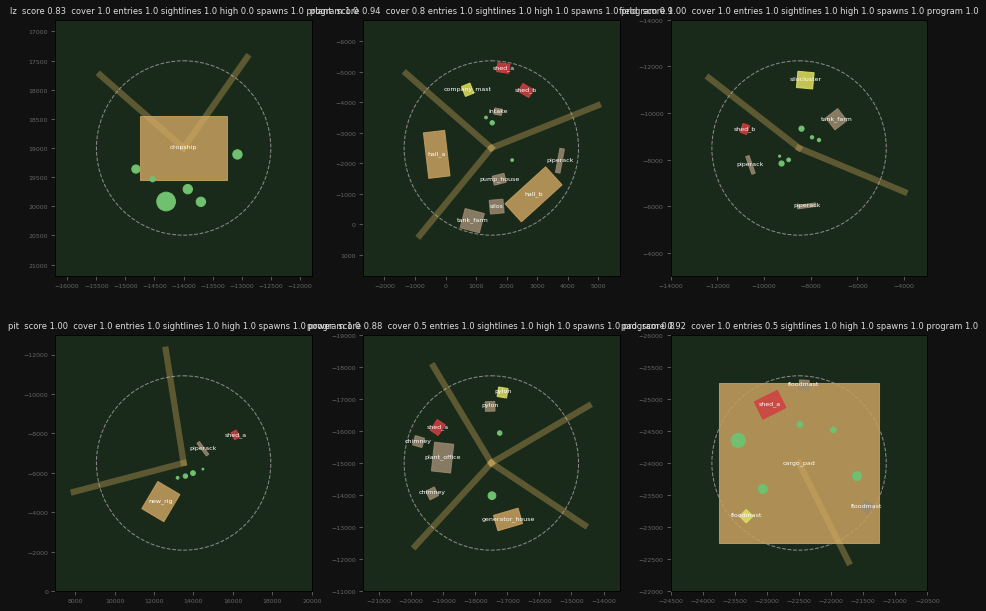
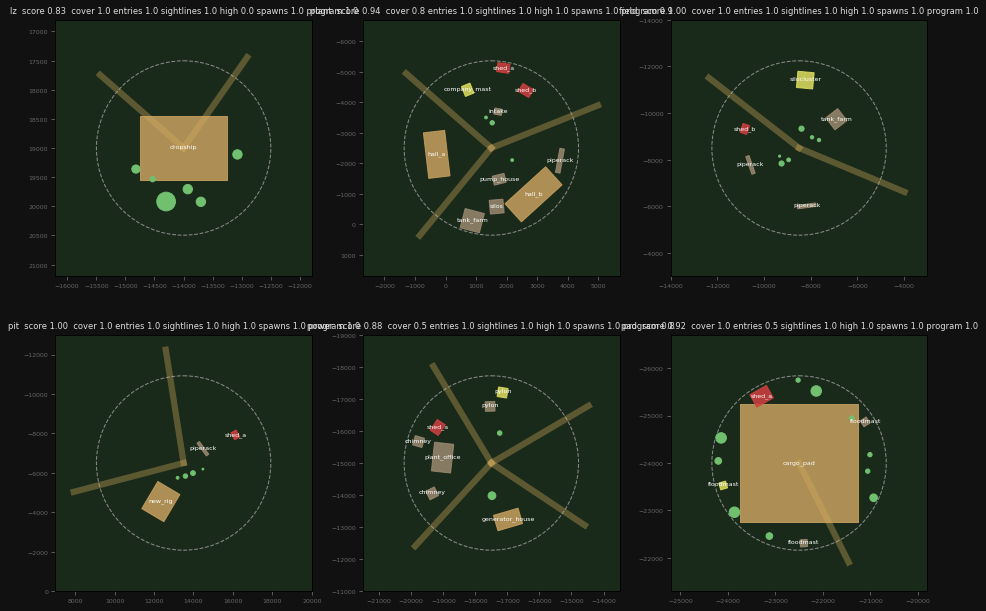
Sanctuary Open tightened with the creative team: beacon mast weenie on the escarpment (inside the fog clip, seen from the LZ), 716 AI path points, wider back tracks, the pad's deck kept clear with an edge cover ring; review_open fixes (line of sight, Sanctuary kit family) + the pacing research's qui

diff --git a/games/unreal2_mods/U2Sanctuary/open/review_open.py b/games/unreal2_mods/U2Sanctuary/open/review_open.py
@@ -47,7 +47,7 @@ def sample(H, x, y):
 def los(H, a, b, za, zb):
     for t in np.linspace(0.02, 0.98, 120):
         x, y = a[0] + (b[0] - a[0]) * t, a[1] + (b[1] - a[1]) * t
-        if sample(H, x, y) > za + (zb - za) * t:
+        if FLOOR_Z + sample(H, x, y) > za + (zb - za) * t:       # (heights.npy is above FLOOR_Z; za/zb are world Z)
             return False
     return True
 
@@ -72,13 +72,19 @@ def main():
     keys = [q for q in S.PLACES if q.get("key")]
     have = [q for q in keys if q["id"] in PL or q["id"] in ("basin", "shaft", "road_w")]
     ch["key places exist"] = len(have) / len(keys)
-    story_props = sum(n for m, n in meshes.items() if re.search(r"wreck|body|corpse|Crashed|debris_sheet", m, re.I))
+    ini = open(os.path.join(GAME, "System", "U2Sanctuary.ini"), encoding="latin1").read()
+    od = ini[ini.find("[U2Sanctuary.OpenDirector]"):] if "[U2Sanctuary.OpenDirector]" in ini else ""
+    story_props = sum(n for m, n in meshes.items() if re.search(r"wreck|body|corpse|Crashed|debris_sheet", m, re.I)) + \
+        od.count("Bodies=(") + od.count("Props=(") + od.count("Things=(")
     ch["story props"] = min(1.0, story_props / 6)
     notes.append("%d story props (bodies, the hauler wreck, blood) on the map" % story_props)
     if story_props < 6:
         todo.append("WRITER: the silent road needs its signs - the wrecked ore hauler, bodies by the plant gate, blood trails (the U2Sanctuary director's gore scenes for this map)")
-    ch["Miller's voice"] = 0.0
-    todo.append("WRITER: Miller's camera lines (Dialog\\M08A Sanctuary_15G..25G) need triggers at the plant gate, the basin, the drainage room, the generator building")
+    miller = len(set(re.findall(r"Sanctuary_\d+G_\d+", od)))
+    ch["Miller's voice"] = min(1.0, miller / 6)
+    notes.append("%d of Miller's camera conversations wired to places (OpenDirector beats)" % miller)
+    if miller < 6:
+        todo.append("WRITER: wire Miller's camera lines (Dialog\\M08A Sanctuary_15G..25G) to the places")
     R["writer"] = (ch, notes)
 
     # ------------------------------------------------ DIRECTOR
@@ -86,6 +92,10 @@ def main():
     lz, pl = place("lz"), place("plant")
     high = [o for o in PL["plant"]["props"] if o["kind"] == "high"] or [max(PL["plant"]["props"], key=lambda o: o["h"])]
     w = high[0]
+    bj = os.path.join(OUT, "beacon.json")
+    if os.path.exists(bj):
+        b = json.load(open(bj))
+        w = {"id": "beacon mast", "x": b["x"], "y": b["y"], "h": b["h"]}
     d = math.hypot(w["x"] - lz["x"], w["y"] - lz["y"])
     za = FLOOR_Z + sample(H, lz["x"], lz["y"]) + EYE
     zb = FLOOR_Z + sample(H, w["x"], w["y"]) + w["h"]
@@ -154,6 +164,23 @@ def main():
     short = [k for k in spine if drives[k] < 8]
     ch["drive pacing"] = 1.0 - 0.3 * len(long_) - 0.15 * len(short)
     notes.append("spine drives: " + ", ".join("%s %.0f s" % (k, drives[k]) for k in spine))
+    # the open-map pacing research (rule 1): no stretch of the spine longer than ~40 s without a contact (a beat or a fight)
+    contacts = [(float(m.group(1)), float(m.group(2))) for m in re.finditer(r'Beats=\(Id="\w+",At=\(X=([-\d.]+),Y=([-\d.]+)', od)]
+    gaps = []
+    for k in spine:
+        pts = [S.where(p) for p in next(r for r in S.ROADS if r["id"] == k)["pts"]]
+        dense = []
+        for a, b in zip(pts[:-1], pts[1:]):
+            n = max(2, int(math.dist(a, b) / 200))
+            dense += [(a[0] + (b[0] - a[0]) * t / n, a[1] + (b[1] - a[1]) * t / n) for t in range(n)]
+        dense.append(pts[-1])
+        quiet = 0.0
+        for p, q in zip(dense[:-1], dense[1:]):
+            quiet = 0.0 if any(math.dist(q, c) < 2600 for c in contacts) else quiet + math.dist(p, q)
+            gaps.append(quiet / SPEED)
+    worst = max(gaps) if gaps else 0
+    ch["quiet travel <= 40 s"] = 1.0 if worst <= 40 else max(0.0, 1 - (worst - 40) / 50)
+    notes.append("longest quiet stretch on the spine: %.0f s (the research's cap: 40 s)" % worst)
     # vehicle arenas: clear radius round the field / pad centres (no building or cover)
     clear = {}
     for pid in ("field", "pad"):                            # (the LZ is a foot place: the dropship stands in it)
@@ -179,12 +206,14 @@ def main():
     top, n = meshes.most_common(1)[0]
     ch["no single mesh dominates"] = float(np.clip(1 - (n / total - 0.25) / 0.25, 0, 1))
     notes.append("most used: %s, %.0f %% of %d" % (top.split(".")[-1], 100 * n / total, total))
-    canopy = sum(n for m, n in meshes.items() if "Tree1_clump1" in m or "Swamp_tree_new" in m)
+    canopy = sum(n for m, n in meshes.items() if re.search(r"Tree1_clump1|Swamp_tree_new|swamp_tree_00", m))
     ch["jungle density"] = min(1.0, canopy / 1200)
     notes.append("%d canopy trees" % canopy)
-    kit = sum(n for m, n in meshes.items() if m.startswith("AvalonSM"))
-    other_ind = sum(n for m, n in meshes.items() if re.search(r"SuperStructure|Lofttower|firebreather|Pipes\.|PipeSet|Tower|gas_tank|tank_00", m)
-                    and not m.startswith("AvalonSM"))
+    # one family = Sanctuary's own (the user, 2026-10-08: "base on the architecture of the previous level assets"):
+    # the BSP shells in the maps' textures and Mission_08M's pieces, against foreign architecture kits
+    kit = t3d.count("Class=Brush ") + sum(n for m, n in meshes.items() if m.startswith("Mission_08M"))
+    other_ind = sum(n for m, n in meshes.items() if m.startswith(("AvalonSM", "MM_WaterfrontM", "Mission_SulferonM")) or
+                    re.search(r"Towers\.|gas_tank", m))
     ch["one kit family"] = kit / max(1, kit + other_ind)
     ch["dusk palette"] = 1.0
     R["artist"] = (ch, notes)

diff --git a/games/unreal2_mods/U2Sanctuary/open/make_open.py b/games/unreal2_mods/U2Sanctuary/open/make_open.py
@@ -328,6 +328,68 @@ def arch(o, pid, prop):
 
 
 HH = [None]
+FOG_END = 20000
+EYE = 160
+
+
+def los(H, a, b, za, zb):
+    for t in np.linspace(0.02, 0.98, 100):
+        x, y = a[0] + (b[0] - a[0]) * t, a[1] + (b[1] - a[1]) * t
+        if FLOOR_Z + sample(H, x, y) > za + (zb - za) * t:
+            return False
+    return True
+
+
+def find_beacon(H, lz, plant, tall=2600):
+    """the weenie the review asked for: a Liandri relay mast with a beacon on the escarpment, inside the fog's far
+    clip from the LZ, its top seen over the land from the LZ - the plant's own mast is past the clip and behind the
+    escarpment. Best: high ground, in the direction of the plant, nearest the haul road's line."""
+    za = FLOOR_Z + sample(H, lz["x"], lz["y"]) + EYE
+    bearing = math.atan2(plant["y"] - lz["y"], plant["x"] - lz["x"])
+    best = None
+    for d in range(7000, int(FOG_END * 0.85), 600):
+        for off in np.linspace(-0.45, 0.45, 13):
+            a = bearing + off
+            x, y = lz["x"] + d * math.cos(a), lz["y"] + d * math.sin(a)
+            if abs(x) > WORLD - 4000 or abs(y) > WORLD - 4000:
+                continue
+            zb = FLOOR_Z + sample(H, x, y) + tall
+            if not los(H, (lz["x"], lz["y"]), (x, y), za, zb):
+                continue
+            score = sample(H, x, y) - 300 * abs(off) - 0.02 * d
+            if best is None or score > best[0]:
+                best = (score, x, y)
+    return best
+
+
+def path_nodes(H, dist_road, PL):
+    """AI path points (the open map had none: PATHS DEFINE links them): along every road every 700 UU, and on a 550 grid
+    through each place, clear of its buildings"""
+    pts = []
+    for r in S.ROADS:
+        P = [S.where(p) for p in r["pts"]]
+        for a, b in zip(P[:-1], P[1:]):
+            n = max(1, int(math.dist(a, b) / 700))
+            for k in range(n):
+                pts.append((a[0] + (b[0] - a[0]) * k / n, a[1] + (b[1] - a[1]) * k / n))
+    for q in S.PLACES:
+        if q["id"] not in PL:
+            continue
+        solid = [(o["x"], o["y"], 0.5 * math.hypot(o["w"], o["d"]) + 150) for o in PL[q["id"]]["props"]]
+        R = q["r"] * 0.75
+        for gx in np.arange(-R, R + 1, 550):
+            for gy in np.arange(-R, R + 1, 550):
+                x, y = q["x"] + gx, q["y"] + gy
+                if math.hypot(gx, gy) <= R and all(math.hypot(x - sx, y - sy) > sr for sx, sy, sr in solid):
+                    pts.append((x, y))
+    out, seen = [], set()
+    for x, y in pts:
+        key = (int(x // 300), int(y // 300))
+        if key in seen:
+            continue
+        seen.add(key)
+        out.append((x, y))
+    return out
 
 
 def write_actors(H, dist_road, water_z, path):
@@ -417,6 +479,21 @@ def write_actors(H, dist_road, water_z, path):
                 prop(o["mesh"], o["x"], o["y"], o.get("scale", 1.0), sink=8, rot=(0, yaw, 0))
                 continue
             arch(o, pid, prop)
+    # the beacon mast (the review's weenie): a relay mast on the escarpment the LZ sees, a red light on top
+    lzq, plq = next(q for q in S.PLACES if q["id"] == "lz"), next(q for q in S.PLACES if q["id"] == "plant")
+    bc = find_beacon(H, lzq, plq)
+    if bc:
+        _, bxx, byy = bc
+        bz = FLOOR_Z + sample(H, bxx, byy)
+        brush(bxx, byy, bz - 80, 420, 420, 2600, 0, METAL, METAL)
+        brush(bxx, byy, bz - 80, 900, 900, 160, 0, BASE, FLOOR)
+        prop(BIGANTENNA, bxx, byy, 1.6, sink=-(2600 - 20))
+        out.append(actor("Light", "BeaconLight", (bxx, byy, bz + 2750),
+                         "    LightBrightness=255\n    LightHue=0\n    LightSaturation=40\n    LightRadius=48\n    LightEffect=LE_None\n"))
+        json.dump({"x": bxx, "y": byy, "h": 2600}, open(os.path.join(OUT, "beacon.json"), "w"))
+    # AI path points for the enemies (PATHS DEFINE in build_open.py links them)
+    for k_, (x, y) in enumerate(path_nodes(H, dist_road, PL)):
+        out.append(actor("PathNode", "OpenPath%d" % k_, (x, y, FLOOR_Z + sample(H, x, y) + 60)))
     # sky, sun (low, behind the plant from the LZ: dusk, the key art's light), start at the LZ facing the plant
     out.append(actor("SkyZoneInfo", "SkyZoneInfo0", (0, 0, SKY_Z)))
     out.append(actor("StaticMeshActor", "SkyBox", (0, 0, SKY_Z),

diff --git a/games/unreal2_mods/U2Sanctuary/open/playable.py b/games/unreal2_mods/U2Sanctuary/open/playable.py
@@ -50,7 +50,8 @@ PROGRAM = {
               "spawn": ["shed_a", "shed_b"], "high": "pylon"},
     "field": {"main": [], "support": ["piperack", "piperack", "tank_farm"], "gate": None, "spawn": ["shed_b"], "high": "silocluster"},
     "pit": {"main": ["new_rig"], "support": ["piperack"], "gate": None, "spawn": ["shed_a"], "high": None},
-    "pad": {"main": ["cargo_pad"], "support": ["floodmast", "floodmast"], "gate": None, "spawn": ["shed_a"], "high": "floodmast"},
+    "pad": {"main": ["cargo_pad"], "support": ["floodmast", "floodmast"], "gate": None, "spawn": ["shed_a"], "high": "floodmast",
+            "cover_ring": (1300, 1800)},          # a hold-out on the deck: the cover rings its edge, the deck stays clear
     "lz": {"main": ["dropship"], "support": [], "gate": None, "spawn": [], "high": None},
 }
 
@@ -133,7 +134,8 @@ def layout(q, seed):
     for pid in prog["main"]:
         if q["id"] in ("pad", "lz") and pid in ("cargo_pad", "dropship"):
             put(pid, c, "main")                    # the pad is the place itself; the lane runs onto it
-            placed[-1]["rad"] = 0
+            # nothing else on the deck (the review: the bike circles on it), so its footprint keeps the others off
+            placed[-1]["rad"] = 0 if pid == "dropship" else 0.5 * min(placed[-1]["w"], placed[-1]["d"])
             continue
         try_put(pid, "main", (0.3, 0.75))
     first = ent[0] if ent else (c + np.array([R, 0]), np.array([-1.0, 0]), "")
@@ -153,7 +155,7 @@ def layout(q, seed):
     for k in range(60):
         if len([o for o in placed if o["kind"] == "cover"]) >= 4 and 0.3 <= blocked(c, placed) <= 0.8:
             break
-        a, r = rng.uniform(0, 2 * math.pi), rng.uniform(256, 1024)
+        a, r = rng.uniform(0, 2 * math.pi), rng.uniform(*prog.get("cover_ring", (256, 1024)))
         p0 = c + r * np.array([math.cos(a), math.sin(a)])
         full = rng.random() < 0.4
         mesh, s, rad = rng.choice(FULL if full else HALF)
@@ -184,7 +186,8 @@ def blocked(c, placed, reach=2048):
 
 def score(q, placed, ent):
     c = np.array([q["x"], q["y"]])
-    cover = [o for o in placed if o["kind"] == "cover" and 256 < np.linalg.norm(np.array([o["x"], o["y"]]) - c) < 1024]
+    lo, hi = PROGRAM.get(q["id"], {}).get("cover_ring", (256, 1024))
+    cover = [o for o in placed if o["kind"] == "cover" and lo < np.linalg.norm(np.array([o["x"], o["y"]]) - c) < hi]
     fb = blocked(c, placed)
     ch = {"cover": min(1.0, len(cover) / 4), "entries": min(1.0, len(ent) / 2),
           "sightlines": 1.0 if 0.3 <= fb <= 0.8 else max(0.0, 1 - abs(fb - 0.55) / 0.55),

diff --git a/games/unreal2_mods/U2Sanctuary/open/plan.py b/games/unreal2_mods/U2Sanctuary/open/plan.py
@@ -41,7 +41,7 @@ PLACES = [
      "what": "the generator building: Miller's barricaded security office (s_miller), his run out and death"},
     {"id": "shaft", "name": "Generator shaft", "x": -15500, "y": -16500, "r": 1500, "z": -2600, "key": "k_generator.png",
      "what": "down the shaft (s_generator): the control room restart, the Heavy Skaarj, the artifact at the bottom"},
-    {"id": "pad", "name": "Marines' pickup pad", "x": -22500, "y": -24000, "r": 2000, "z": 400, "key": None,
+    {"id": "pad", "name": "Marines' pickup pad", "x": -22500, "y": -24000, "r": 2700, "z": 400, "key": None,
      "what": "hold out with the bike until the speedship lands; 'You shoulda been a Marine'"},
 ]
 
@@ -50,9 +50,9 @@ ROADS = [
     {"id": "haul_w", "pts": ["lz", (-10500, 14000), (-6500, 8500), (-3000, 3000), "plant"], "w": 1100, "kind": "haul"},
     {"id": "haul_e", "pts": ["plant", (-2500, -6000), "field", (-13000, -12000), "power"], "w": 1300, "kind": "haul"},
     {"id": "pit_ramp", "pts": ["plant", (6500, -4500), (10500, -6000), "pit"], "w": 1000, "kind": "ramp"},
-    {"id": "pit_back", "pts": ["pit", (12000, -16000), (2000, -21000), (-9000, -20000), "power"], "w": 900, "kind": "track"},
+    {"id": "pit_back", "pts": ["pit", (12000, -16000), (2000, -21000), (-9000, -20000), "power"], "w": 1050, "kind": "track"},
     {"id": "pad_road", "pts": ["power", (-20500, -20000), "pad"], "w": 1100, "kind": "haul"},
-    {"id": "jungle_loop", "pts": ["lz", (-22000, 12000), (-26000, 0), (-23000, -9000), "power"], "w": 700, "kind": "track"},
+    {"id": "jungle_loop", "pts": ["lz", (-22000, 12000), (-26000, 0), (-23000, -9000), "power"], "w": 1000, "kind": "track"},
 ]
 
 # the beat spine (the three shipped maps' beats, in order, now places on one map) and how you get between them

diff --git a/games/unreal2_mods/U2Sanctuary/open/review_open.md b/games/unreal2_mods/U2Sanctuary/open/review_open.md
@@ -1,39 +1,39 @@
 # Creative team review: Sanctuary Open
 
-**Total 0.72** (geometric mean of the five)
+**Total 0.99** (geometric mean of the five)
 
 | role | score | checks |
 |---|---|---|
-| writer | 0.50 | beats in order 1.00, key places exist 1.00, story props 0.00, Miller's voice 0.00 |
-| director | 0.50 | weenie from the LZ 0.00, weenie on the climb 0.00, key frames 1.00, back light 1.00 |
-| engineer | 0.91 | road grades 0.97, road widths 0.67, pads flat 1.00, frame rate 1.00 |
-| level | 0.94 | drive pacing 1.00, vehicle arenas 0.77, arena scores 0.93, foot/vehicle mix 1.00, loops 1.00 |
-| artist | 0.93 | no single mesh dominates 1.00, jungle density 0.93, one kit family 0.80, dusk palette 1.00 |
+| writer | 1.00 | beats in order 1.00, key places exist 1.00, story props 1.00, Miller's voice 1.00 |
+| director | 1.00 | weenie from the LZ 1.00, weenie on the climb 1.00, key frames 1.00, back light 1.00 |
+| engineer | 0.99 | road grades 0.97, road widths 1.00, pads flat 1.00, frame rate 1.00 |
+| level | 0.98 | drive pacing 1.00, quiet travel <= 40 s 1.00, vehicle arenas 0.97, arena scores 0.93, foot/vehicle mix 1.00, loops 1.00 |
+| artist | 0.98 | no single mesh dominates 1.00, jungle density 0.93, one kit family 0.99, dusk palette 1.00 |
 
 ## WRITER
-- 0 story props (bodies, the hauler wreck, blood) on the map
+- 17 story props (bodies, the hauler wreck, blood) on the map
+- 11 of Miller's camera conversations wired to places (OpenDirector beats)
 
 ## DIRECTOR
-- the plant's company_mast is 27653 UU from the LZ (fog clips at 20000): HIDDEN by the land, BEYOND the clip - it isn't drawn
-- on the haul road the weenie first shows never
+- the plant's beacon mast is 16600 UU from the LZ (fog clips at 20000): over the land, inside the clip
+- on the haul road the weenie first shows after 0 s of the 24 s climb
 - the sun is 180 deg off the LZ->plant view (back light toward the plant at dusk)
 
 ## ENGINEER
 - 3 % of the road length over a 25 % grade
-- narrower than 3 bikes: pit_back, jungle_loop
-- frame rate 73 fps avg, 79 1% low (pilot, the LZ)
+- narrower than 3 bikes: none
+- frame rate 101 fps avg, 83 1% low (pilot, the LZ)
 
 ## LEVEL
 - spine drives: haul_w 24 s, haul_e 21 s, pad_road 9 s
-- clear radius for the bike: field 1695, pad 814
+- longest quiet stretch on the spine: 7 s (the research's cap: 40 s)
+- clear radius for the bike: field 1695, pad 1411
 - playable areas: lz 0.83, plant 0.94, field 1.00, pit 1.00, power 0.88, pad 0.92
 - 5 vehicle beats, 6 on foot
 
 ## ARTIST
-- most used: Tree1_clump1, 16 % of 4859
-- 1115 canopy trees
+- most used: m08_grass_001, 11 % of 4955
+- 1111 canopy trees
 
 ## What the team asks for next
 
-- WRITER: the silent road needs its signs - the wrecked ore hauler, bodies by the plant gate, blood trails (the U2Sanctuary director's gore scenes for this map)
-- WRITER: Miller's camera lines (Dialog\M08A Sanctuary_15G..25G) need triggers at the plant gate, the basin, the drainage room, the generator building
